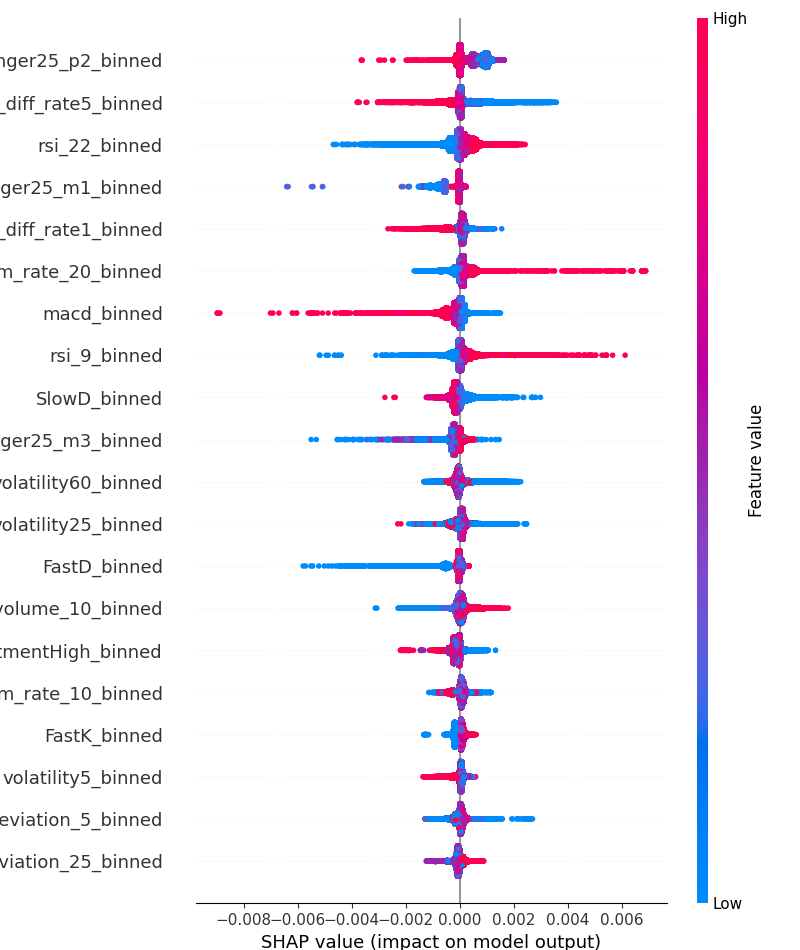
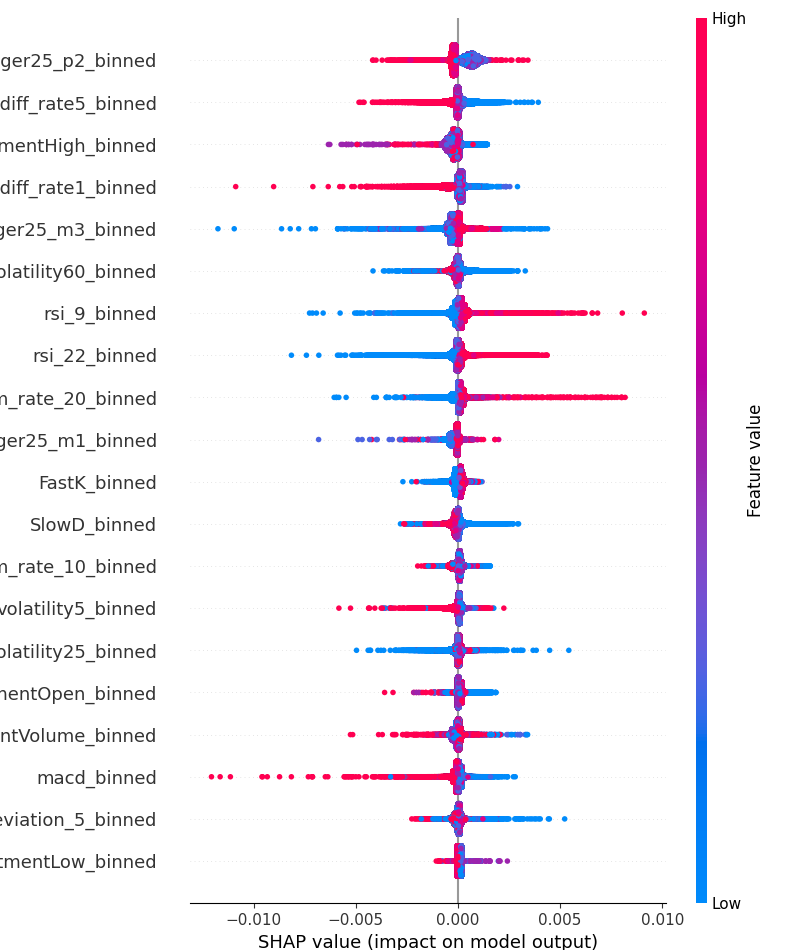
add GBM ensemble

diff --git a/forecast.py b/forecast.py
@@ -10,6 +10,7 @@ from sklearn.model_selection import train_test_split
 from tensorflow import keras
 from tensorflow.keras import layers
 import lightgbm as lgb
+from sklearn.linear_model import LinearRegression
 import shap
 
 import mylib_stock2
@@ -18,9 +19,10 @@ import mylib_stock2
 # 各種設定
 # DATA_USE_RATEは最大1で181万データ
 SEED = 1234
-MODEL = "GBM"
+MODEL = "ENSEMBLE_GBM"
+ENSEMBLE_NUM = 3 # < 4
 DATA_USE_RATE = 1
-DO_SHAP = True
+DO_SHAP = False
 
 # 実行時間計測
 start = time.time()
@@ -60,7 +62,7 @@ features = ['Code',
             'rsi_9',
             'rsi_14',
             'rsi_22',
-            #'psycological',
+            'psycological',
             'movingline_deviation_5',
             'movingline_deviation_25',
             'bollinger25_p1',
@@ -102,11 +104,50 @@ X_test = pd.DataFrame(X_test_binned, index=X_test.index, columns=[f"{feat}_binne
 # モデルの初期化と学習
 if MODEL == "GBM":
     # LightGBM(決定木)
-    model = lgb.LGBMRegressor(random_state=SEED, verbose=-1, max_depth=4)
+    model = lgb.LGBMRegressor(random_state=SEED, verbose=-1, max_depth=5)
     
     # 学習
     model.fit(X_train, y_train)
     
+    # 予測
+    df_train['y_pred'] = model.predict(X_train)
+    df_test['y_pred'] = model.predict(X_test)
+    
+elif MODEL == "ENSEMBLE_GBM":
+    tmp_train_pred = pd.Series([0]*len(X_train))
+    print(len(tmp_train_pred))
+    tmp_test_pred = pd.Series([0]*len(X_test))
+    
+    # 複数のGBMのアンサンブル
+    for i in range(ENSEMBLE_NUM):
+        model = lgb.LGBMRegressor(random_state=SEED, verbose=-1, max_depth=5+i%3)
+        model.fit(X_train, y_train)
+        tmp_train_pred += model.predict(X_train)
+        tmp_test_pred += model.predict(X_test)
+        
+    df_train['y_pred'] = tmp_train_pred/ENSEMBLE_NUM
+    df_test['y_pred'] = tmp_test_pred/ENSEMBLE_NUM
+    
+elif MODEL == "LR":
+    # Linear Regression(線形回帰)
+    model = LinearRegression()
+    
+    # 学習
+    model.fit(X_train, y_train)
+    
+    # 予測
+    df_train['y_pred'] = model.predict(X_train)
+    df_test['y_pred'] = model.predict(X_test)
+    
+elif MODEL == "ENSEMBLE_GBM_LR":
+    # LRとGBMのアンサンブル
+    model1 = lgb.LGBMRegressor(random_state=SEED, verbose=-1, max_depth=5)
+    model2 = LinearRegression()
+    model1.fit(X_train, y_train)
+    model2.fit(X_train, y_train)
+    df_train['y_pred'] = (3*model1.predict(X_train) + model2.predict(X_train))/4
+    df_test['y_pred'] = (3*model1.predict(X_test) + model2.predict(X_test))/4
+        
 elif MODEL == "NEURAL":
     # パラメータ
     LAYERS = 1
@@ -125,11 +166,10 @@ elif MODEL == "NEURAL":
 
     # モデルの学習
     model.fit(X_train, y_train, epochs=EPOCHS, batch_size=BATCH_SIZE, validation_split=0.2, verbose=0)
-
-# 訓練データでの予測値
-df_train['y_pred'] = model.predict(X_train)
-# テストデータでの予測値
-df_test['y_pred'] = model.predict(X_test)
+    
+    # 予測
+    df_train['y_pred'] = model.predict(X_train)
+    df_test['y_pred'] = model.predict(X_test)
 
 
 # 学習・評価データの分析結果を出力
